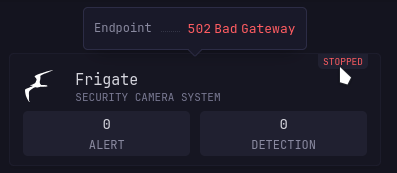
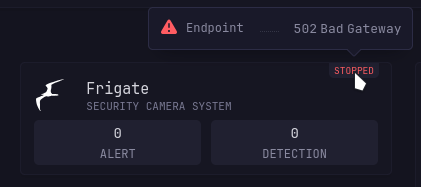
(stats-cards): rewrite status badge's popover (#8)

diff --git a/styles/stat-grid-style.css b/styles/stat-grid-style.css
@@ -1,4 +1,3 @@
-/* Grid style similar to Homepage */
 .stat-grid-style {
     gap: 1rem;
     overflow-y: auto;
@@ -6,7 +5,7 @@
     margin-bottom: -8px;
 }
 
-.stat-grid-style > * {
+.stat-grid-style>* {
     background: hsla(var(--bghs), calc(var(--scheme) (var(--scheme) var(--bgl) + 12%)), 0.4);
     padding: 2px 4px;
     border-radius: var(--border-radius);
@@ -16,7 +15,19 @@
     min-width: 0;
 }
 
-.stat-card-badge {
+.stat-card-container {
+    position: relative;
+}
+
+.stat-card-container .stat-title-container {
+    line-height: 1.3;
+}
+
+.stat-card-container .stat-subtitle {
+    color: var(--color-text-base-muted);
+}
+
+.stat-card-container .stat-card-badge {
     position: absolute;
     top: 0;
     right: 12px;
